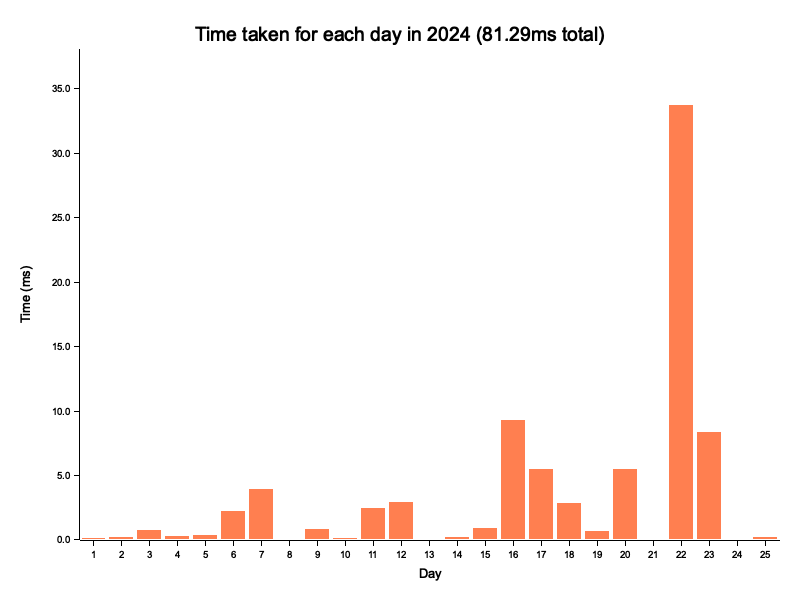
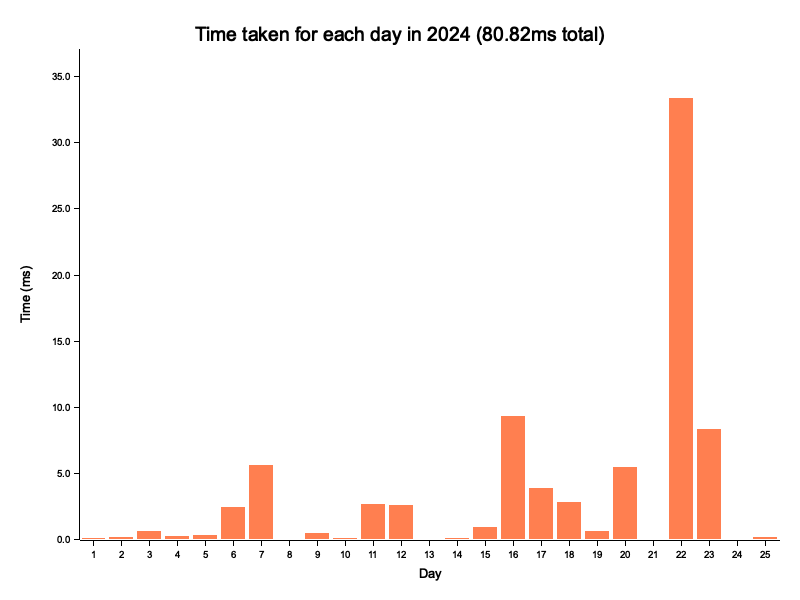
Commit Claude's optimisations and log

diff --git a/Readme.md b/Readme.md
@@ -18,30 +18,30 @@ Successfully completed problems with the time taken to execute them on my M1 Pro
 |------|-------------|-------------|-------------|-------------|------------|
 | 1 | [Historian Hysteria](https://adventofcode.com/2024/day/1) | [Solution](/y2024/src/day1/mod.rs) | 0.05 | 0.04 | 0.09 |
 | 2 | [Red-Nosed Reports](https://adventofcode.com/2024/day/2) | [Solution](/y2024/src/day2/mod.rs) | 0.09 | 0.09 | 0.18 |
-| 3 | [Mull It Over](https://adventofcode.com/2024/day/3) | [Solution](/y2024/src/day3/mod.rs) | 0.37 | 0.37 | 0.73 |
-| 4 | [Ceres Search](https://adventofcode.com/2024/day/4) | [Solution](/y2024/src/day4/mod.rs) | 0.18 | 0.10 | 0.27 |
-| 5 | [Print Queue](https://adventofcode.com/2024/day/5) | [Solution](/y2024/src/day5/mod.rs) | 0.16 | 0.16 | 0.32 |
-| 6 | [Guard Gallivant](https://adventofcode.com/2024/day/6) | [Solution](/y2024/src/day6/mod.rs) | 0.09 | 2.09 | 2.19 |
-| 7 | [Bridge Repair](https://adventofcode.com/2024/day/7) | [Solution](/y2024/src/day7/mod.rs) | 0.17 | 3.76 | 3.94 |
+| 3 | [Mull It Over](https://adventofcode.com/2024/day/3) | [Solution](/y2024/src/day3/mod.rs) | 0.33 | 0.33 | 0.66 |
+| 4 | [Ceres Search](https://adventofcode.com/2024/day/4) | [Solution](/y2024/src/day4/mod.rs) | 0.19 | 0.10 | 0.28 |
+| 5 | [Print Queue](https://adventofcode.com/2024/day/5) | [Solution](/y2024/src/day5/mod.rs) | 0.20 | 0.14 | 0.34 |
+| 6 | [Guard Gallivant](https://adventofcode.com/2024/day/6) | [Solution](/y2024/src/day6/mod.rs) | 0.07 | 2.34 | 2.42 |
+| 7 | [Bridge Repair](https://adventofcode.com/2024/day/7) | [Solution](/y2024/src/day7/mod.rs) | 0.24 | 5.37 | 5.61 |
 | 8 | [Resonant Collinearity](https://adventofcode.com/2024/day/8) | [Solution](/y2024/src/day8/mod.rs) | 0.02 | 0.04 | 0.06 |
-| 9 | [Disk Fragmenter](https://adventofcode.com/2024/day/9) | [Solution](/y2024/src/day9/mod.rs) | 0.23 | 0.55 | 0.78 |
-| 10 | [Hoof It](https://adventofcode.com/2024/day/10) | [Solution](/y2024/src/day10/mod.rs) | 0.07 | 0.06 | 0.13 |
-| 11 | [Plutonian Pebbles](https://adventofcode.com/2024/day/11) | [Solution](/y2024/src/day11/mod.rs) | 0.04 | 2.43 | 2.47 |
-| 12 | [Garden Groups](https://adventofcode.com/2024/day/12) | [Solution](/y2024/src/day12/mod.rs) | 1.04 | 1.83 | 2.88 |
+| 9 | [Disk Fragmenter](https://adventofcode.com/2024/day/9) | [Solution](/y2024/src/day9/mod.rs) | 0.12 | 0.35 | 0.46 |
+| 10 | [Hoof It](https://adventofcode.com/2024/day/10) | [Solution](/y2024/src/day10/mod.rs) | 0.08 | 0.07 | 0.14 |
+| 11 | [Plutonian Pebbles](https://adventofcode.com/2024/day/11) | [Solution](/y2024/src/day11/mod.rs) | 0.05 | 2.67 | 2.71 |
+| 12 | [Garden Groups](https://adventofcode.com/2024/day/12) | [Solution](/y2024/src/day12/mod.rs) | 0.92 | 1.69 | 2.61 |
 | 13 | [Claw Contraption](https://adventofcode.com/2024/day/13) | [Solution](/y2024/src/day13/mod.rs) | 0.03 | 0.03 | 0.06 |
-| 14 | [Restroom Redoubt](https://adventofcode.com/2024/day/14) | [Solution](/y2024/src/day14/mod.rs) | 0.03 | 0.17 | 0.20 |
+| 14 | [Restroom Redoubt](https://adventofcode.com/2024/day/14) | [Solution](/y2024/src/day14/mod.rs) | 0.03 | 0.11 | 0.14 |
 | 15 | [Warehouse Woes](https://adventofcode.com/2024/day/15) | [Solution](/y2024/src/day15/mod.rs) | 0.37 | 0.53 | 0.91 |
 | 16 | [Reindeer Maze](https://adventofcode.com/2024/day/16) | [Solution](/y2024/src/day16/mod.rs) | 3.18 | 6.11 | 9.29 |
-| 17 | [Chronospatial Computer](https://adventofcode.com/2024/day/17) | [Solution](/y2024/src/day17/mod.rs) | 0.00 | 5.43 | 5.43 |
+| 17 | [Chronospatial Computer](https://adventofcode.com/2024/day/17) | [Solution](/y2024/src/day17/mod.rs) | 0.00 | 3.89 | 3.89 |
 | 18 | [RAM Run](https://adventofcode.com/2024/day/18) | [Solution](/y2024/src/day18/mod.rs) | 0.48 | 2.33 | 2.80 |
 | 19 | [Linen Layout](https://adventofcode.com/2024/day/19) | [Solution](/y2024/src/day19/mod.rs) | 0.35 | 0.33 | 0.67 |
 | 20 | [Race Condition](https://adventofcode.com/2024/day/20) | [Solution](/y2024/src/day20/mod.rs) | 0.62 | 4.86 | 5.49 |
 | 21 | [Keypad Conundrum](https://adventofcode.com/2024/day/21) | [Solution](/y2024/src/day21/mod.rs) | 0.01 | 0.06 | 0.07 |
-| 22 | [Monkey Market](https://adventofcode.com/2024/day/22) | [Solution](/y2024/src/day22/mod.rs) | 1.29 | 32.41 | 33.70 |
+| 22 | [Monkey Market](https://adventofcode.com/2024/day/22) | [Solution](/y2024/src/day22/mod.rs) | 1.40 | 31.91 | 33.31 |
 | 23 | [LAN Party](https://adventofcode.com/2024/day/23) | [Solution](/y2024/src/day23/mod.rs) | 0.41 | 7.96 | 8.36 |
 | 24 | [Crossed Wires](https://adventofcode.com/2024/day/24) | [Solution](/y2024/src/day24/mod.rs) | 0.03 | 0.05 | 0.07 |
 | 25 | [Code Chronicle](https://adventofcode.com/2024/day/25) | [Solution](/y2024/src/day25/mod.rs) | 0.18 | 0.00 | 0.18 |
-|  |  | Total | 9.49ms | 71.80ms | 81.29ms |
+|  |  | Total | 9.43ms | 71.38ms | 80.82ms |
 
 
 ## Setup

diff --git a/claude-log.md b/claude-log.md
@@ -1,0 +1,127 @@
+# Claude Optimization Log
+
+## Summary
+
+**3 optimizations committed**:
+- Day 14 Part 2 improved by 38.9%
+- Day 17 Part 2 improved by 21.1%
+- Day 3 Part 2 improved by 9.6%
+
+---
+
+## Day 1 - Parse Optimization
+
+**Hypothesis**: Combining two `filter_map` calls into one should reduce iterator overhead.
+
+**Change**: Merged two `filter_map` calls in `parse()` into a single one.
+
+**Result**: ~1.3% improvement - below 1% threshold. **Not committed.**
+
+---
+
+## Day 22 - Array instead of HashMap
+
+**Hypothesis**: Since the index function creates bounded values [0, 19^4), using a fixed-size array should be faster than HashMap.
+
+**Change**: Replaced `AHashMap<i64, i64>` with `Vec<i64>` using -1 as sentinel.
+
+**Result**: Stack overflow initially (array too large for stack in rayon threads). After switching to Vec, index out of bounds errors - the actual max index is larger than 19^4 = 130321. **Not committed.**
+
+---
+
+## Day 5 - Avoid Clone for Part1
+
+**Hypothesis**: Part1 only needs to check if book is ordered, not get the sorted result. Avoid unnecessary clone+sort.
+
+**Change**: Added separate `is_already_ordered` function with O(n²) comparison.
+
+**Result**: +40% regression for Part 1. The O(n²) comparison is slower than cloning and sorting. **Not committed.**
+
+---
+
+## Day 11 - Reduce ilog10 Calls
+
+**Hypothesis**: The `transform` function calls `n.ilog10()` and then `split` calls it again. Using a lookup table should be faster.
+
+**Change**: Added `POWERS_OF_10` lookup table and inlined the split logic.
+
+**Result**: +12% regression for Part 1, +9% for Part 2. The compiler already optimizes `10u64.pow()` efficiently. **Not committed.**
+
+---
+
+## Day 7 - Replace Loop in next_power_of_10
+
+**Hypothesis**: Replace the while loop with `10u64.pow(n.ilog10() + 1)`.
+
+**Change**: Replaced loop with single expression using ilog10.
+
+**Result**: Significant regression (+50% Part 1, +35% Part 2). The simple loop is faster than ilog10+pow. **Not committed.**
+
+---
+
+## Day 14 - Single Pass Variance ✅
+
+**Hypothesis**: Computing variance with Var(X) = E[X²] - E[X]² in a single pass should be faster than computing mean first then squared differences.
+
+**Change**: Replaced two-pass variance calculation with single-pass using the algebraic identity.
+
+**Result**:
+- Part 1: -4.7% (minor improvement)
+- Part 2: **-38.9%** (177µs → 108µs)
+
+**Committed**: f29391e
+
+---
+
+## Day 17 - Bit Operations ✅
+
+**Hypothesis**: Replace division by powers of 2 with right shifts and modulo 8 with bitwise AND.
+
+**Change**: Changed `self.A /= 2u64.pow(...)` to `self.A >>= ...` and `% 8` to `& 7`.
+
+**Result**:
+- Part 1: No measurable change (already sub-microsecond)
+- Part 2: **-21.1%** (4.9ms → 3.9ms)
+
+**Committed**: b7c96c7
+
+---
+
+## Day 3 - Remove String Allocation ✅
+
+**Hypothesis**: The `SpecialCharacters` instruction variant never uses its string content, so avoid allocating it.
+
+**Change**: Changed `SpecialCharacters(String)` to `SpecialCharacters` (unit variant).
+
+**Result**:
+- Part 2: **-9.6%** (363µs → 331µs)
+
+**Committed**: ad7511a
+
+---
+
+## Day 4 - Short-circuit Evaluation
+
+**Hypothesis**: Using `&&` short-circuit evaluation instead of tuple pattern matching might be faster.
+
+**Change**: Changed `if let (Some('M'), Some('A'), Some('S')) = (...)` to chained `&&` comparisons.
+
+**Result**: +12% regression. The compiler optimizes tuple pattern matching better. **Not committed.**
+
+---
+
+## Observations
+
+1. The Rust compiler and LLVM are very good at optimizing idiomatic code. Many "obvious" optimizations actually regress performance.
+
+2. Operations involving `ilog10` and `pow` are not as fast as simple loops in some cases.
+
+3. The biggest wins come from algorithmic improvements (single-pass variance) rather than micro-optimizations.
+
+4. Pattern matching with tuples is well-optimized by the compiler - don't try to outsmart it.
+
+5. Using arrays instead of HashMaps can be tricky with stack sizes and index bounds.
+
+6. Bit operations (shifts and AND) are faster than arithmetic operations (division and modulo) for powers of 2.
+
+7. Unnecessary allocations (like unused String fields) add measurable overhead.
